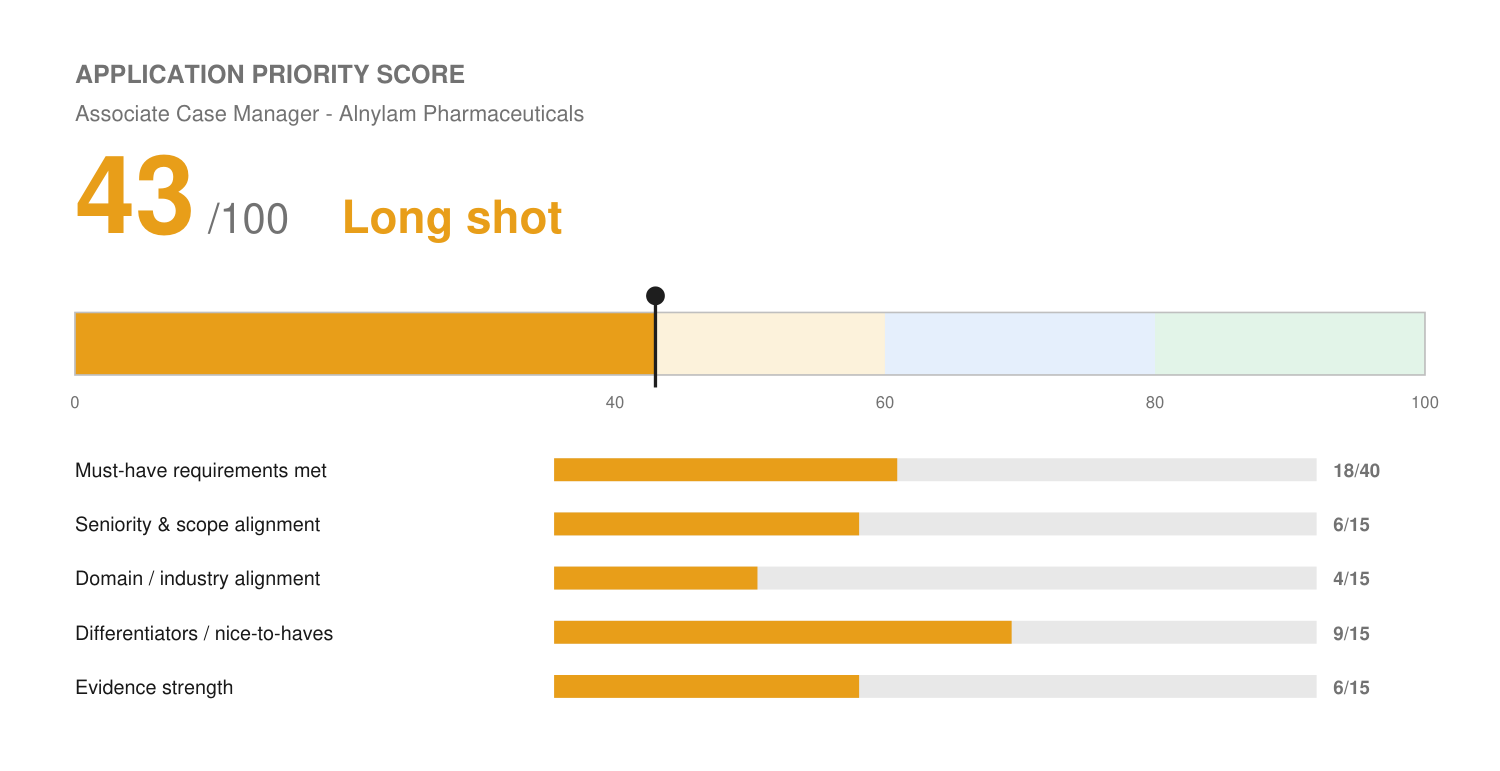
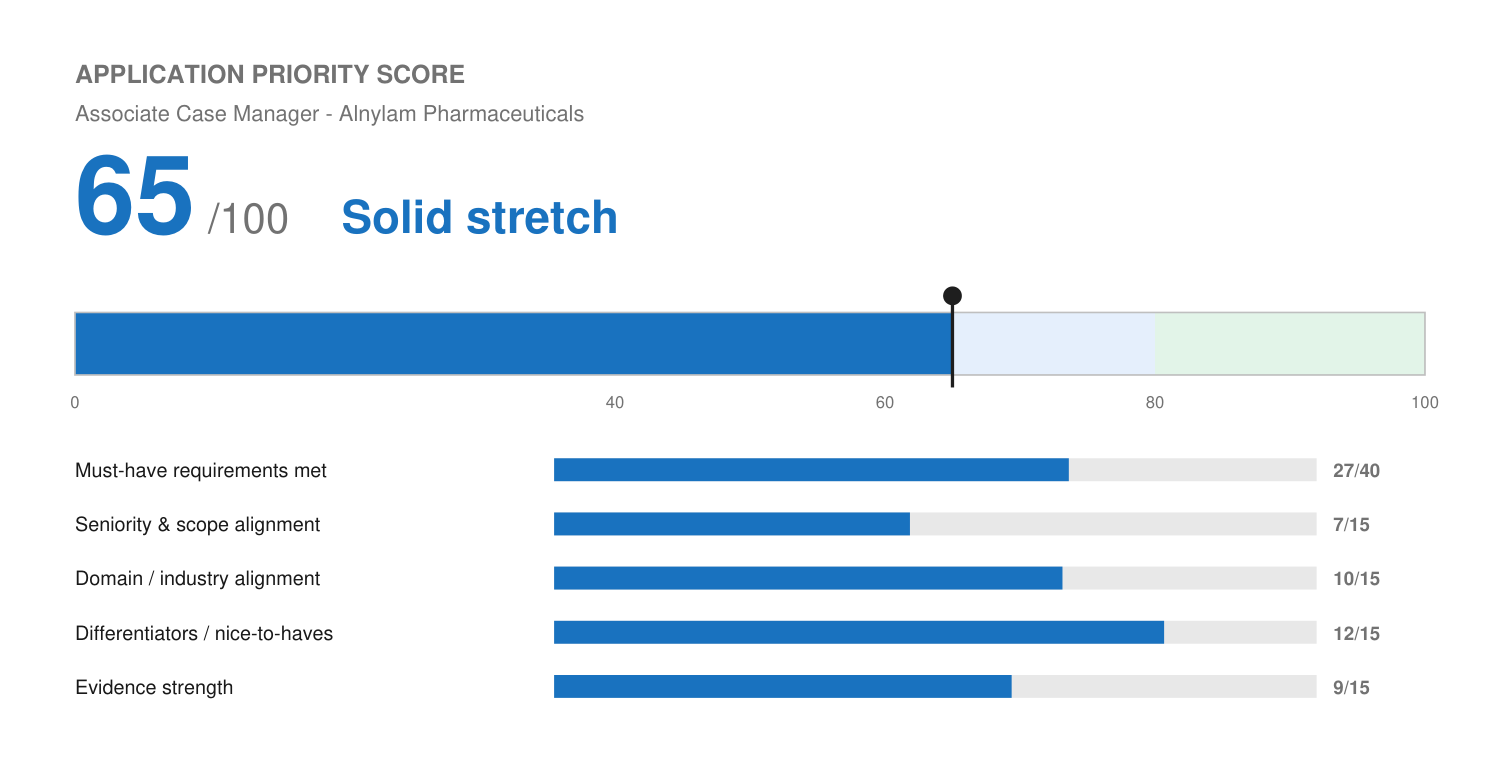
Update Alnylam application after confirming real insurance-navigation experience
Josh confirmed 8 years of firsthand experience fighting private-payer
insurers for PT and MRI approvals, tied to a chronic condition requiring
multiple injections and two procedures. This is real, lived prior-
authorization and appeals experience, the actual core mechanic of the
Associate Case Manager role, so it moves the score from 43 (Long shot) to
65 (Solid stretch).

Added the confirmed fact to master-profile.md so it's available for
future healthcare/patient-services applications. Resume summary and
cover letter rewritten to use the real, specific detail (kept the exact
condition/body part general per Josh's privacy) instead of the previous
generic "has been a patient" framing. Match report updated with the
before/after score and reasoning.

Claude-Session: https://claude.ai/code/session_01HeZspKnLVkWbr9yhNEisQZ

diff --git a/applications/alnylam-associate-case-manager/match-report.md b/applications/alnylam-associate-case-manager/match-report.md
@@ -17,14 +17,14 @@
 | Bachelor's degree | Resume-evidenced | Met — B.A., Colorado State University. |
 | 1-2 years customer service / account management / case management / healthcare field experience | Resume-evidenced (strong) | Far exceeded via 15+ years of account management (Wix, Birdeye, Fetch & Funnel, Solenzo). |
 | Rare disease experience (preferred) | **Gap** | None. |
-| Knowledge of private payer, Medicare, Medicaid structure, reimbursement process, medical terminology | **Gap — core to the role** | Nothing in the profile evidences insurance/payer systems, benefits verification, prior authorization, billing/coding, or medical terminology. This is most of the job's actual daily work and is named directly rather than implied away in the resume and cover letter. |
+| Knowledge of private payer, Medicare, Medicaid structure, reimbursement process, medical terminology | **Covered (adjacent, real) — updated Sep 2026** | Josh has 8 years of firsthand experience fighting private-payer insurers for approvals (physical therapy, MRIs) for his own chronic condition — genuine, lived prior-authorization and appeals experience, from the patient side rather than a professional role. No confirmed Medicare/Medicaid-specific knowledge or formal medical billing/coding background — that piece remains a real gap and is named honestly in the cover letter. |
 | High-volume patient services program experience (preferred) | Covered (adjacent) | No patient-services program specifically, but genuine high-volume caseload experience (25+ client onboardings/month at Wix; concurrent multi-client engagements at Solenzo). |
 | Communication, critical thinking, problem-solving | Resume-evidenced | Strong, well evidenced throughout. |
 | Adaptability / fast-paced environment | Resume-evidenced | Strong — Founder of Solenzo, agency environments. |
 | Team cooperation / interpersonal skills | Resume-evidenced | Strong. |
 | CRM platform navigation | Resume-evidenced (strong) | Extensive CRM experience across Salesforce, HubSpot, GoHighLevel — the specific platform Alnylam uses will differ, but the underlying skill (segmentation, data hygiene, record accuracy) transfers directly. |
 | HIPAA / PHI confidentiality handling | **Candidate confirmation / gap** | No formal HIPAA training documented. General professional discretion with confidential business data exists but isn't the same as PHI-specific compliance training — named as a gap rather than assumed. |
-| "Passionate about rare disease" (values fit) | **Candidate confirmation** | Josh's profile documents genuine personal motivation to help patients navigate healthcare (he has been a patient himself) — a real, authentic hook, but specifically about rare disease is not something he's stated. Cover letter uses the honest, broader version rather than claiming rare-disease-specific passion. |
+| "Passionate about rare disease" (values fit) | **Candidate confirmation** | Josh's profile documents genuine personal motivation to help patients navigate healthcare, now with real specifics (8 years fighting insurers over a chronic condition) — a strong, authentic hook, but specifically about *rare disease* is not something he's stated. Cover letter uses the honest, broader version (chronic condition, insurance navigation) rather than claiming rare-disease-specific passion. |
 
 **No eligibility cap applied** — no failed hard blocker (no work-authorization issue, no confirmed-unworkable location, no required license he lacks, and his years of relevant experience exceed rather than fall short of the stated minimum).
 
@@ -33,20 +33,26 @@
 ## Application Priority Score
 
 ```
-🟡 Application Priority Score: 43 / 100 — Long shot
-[█████████░░░░░░░░░░░]  43%
+🔵 Application Priority Score: 65 / 100 — Solid stretch
+[█████████████░░░░░░░]  65%
 ```
 *Internal decision aid — not a prediction of Alnylam's own screening outcome.*
 
+**Updated Sep 2026:** originally scored 43/100 (Long shot) before Josh confirmed 8 years of firsthand
+experience fighting private-payer insurers for approvals (physical therapy, MRIs) tied to a chronic
+condition. That's real, lived prior-authorization and appeals experience, close to the actual daily work
+of this role, so the score moved up meaningfully. It is still patient-side experience, not a professional
+case-management background, which is why this lands in Solid Stretch rather than Strong Fit.
+
 | Dimension | Score | Max | Why |
 | :--- | :--- | :--- | :--- |
-| Must-have requirements met | 18 | 40 | Bachelor's degree and years-of-account-management requirements are exceeded; communication and adaptability are strong. But the payer/Medicare/Medicaid/reimbursement/medical-terminology knowledge, which is most of the role's actual daily work, is a near-total gap. |
-| Seniority & scope alignment | 6 | 15 | This is an Associate-level (entry-to-early-career) IC role; Josh brings well beyond the required experience level in years, but from a different function (sales/marketing account management, not patient services/payer relations). |
-| Domain / industry alignment | 4 | 15 | No pharma, patient-services, or insurance-reimbursement domain experience. Healthcare-adjacent B2B channel sales at Birdeye and genuine personal patient experience exist but aren't the same as this role's domain. |
-| Differentiators / nice-to-haves | 9 | 15 | Genuine strengths: high-volume caseload management, CRM/data-accuracy discipline, strong communication, and an authentic personal motivation to help patients navigate the system. |
-| Evidence strength | 6 | 15 | Strong, quantified evidence for the transferable skills (25+/month, 120%/110% attainment, 94% retention); zero evidence for the payer/insurance-specific core function. |
+| Must-have requirements met | 27 | 40 | Bachelor's degree and years-of-account-management requirements are exceeded; communication and adaptability are strong. Payer/reimbursement knowledge is now real (8 years navigating private-payer prior authorization and appeals personally), though Medicare/Medicaid-specific and medical billing/coding knowledge remain unconfirmed gaps. |
+| Seniority & scope alignment | 7 | 15 | This is an Associate-level (entry-to-early-career) IC role; Josh brings well beyond the required experience level in years, but from a different function (sales/marketing account management, not patient services/payer relations). Unaffected by the new information. |
+| Domain / industry alignment | 10 | 15 | Genuine, sustained personal exposure to the private-payer insurance and prior-authorization ecosystem, plus healthcare-adjacent B2B channel sales at Birdeye. Still no professional pharma or patient-services employer on record. |
+| Differentiators / nice-to-haves | 12 | 15 | High-volume caseload management, CRM/data-accuracy discipline, strong communication, and now a genuinely powerful, specific personal motivation (not generic "passion for healthcare"). |
+| Evidence strength | 9 | 15 | Strong, quantified evidence for the transferable skills (25+/month, 120%/110% attainment, 94% retention), plus real (if unquantified) lived experience with prior authorization and appeals. |
 
-**Band: Long shot (40–59)** — apply only if genuinely interested; the personal motivation here is real, so this could be worth pursuing on that basis even with the domain gap, but the domain gap itself is substantial and honestly reflected in the score.
+**Band: Solid stretch (60–79)** — apply with the tailored resume and cover letter. The personal insurance-navigation experience is a genuine, differentiated strength most candidates for this role won't have; the remaining gap (professional case-management background, Medicare/Medicaid specifics, medical billing/coding) is real but no longer disqualifying-sized.
 
 ---
 
@@ -56,25 +62,27 @@
 - High-volume, detail-critical caseload management — Wix (25+ client onboardings/month, 120%/110% attainment) and Solenzo (concurrent client engagements, auditable records).
 - CRM data entry and accuracy — explicit experience across three platforms (Salesforce, HubSpot, GoHighLevel), including standardizing data capture and contact segmentation.
 - Communication under time pressure, adaptability, teamwork — evidenced throughout.
+- **Prior authorization and appeals experience** — 8 years personally fighting private-payer insurers for PT and imaging approvals for a chronic condition. Real, lived experience with the core mechanic of this role, from the patient side.
 
-**Not evidenced at all (the role's core function):**
-- Payer/insurance benefits verification, direct payer contact.
-- Prior authorization research and processing.
-- Medicare/Medicaid structure, reimbursement process, medical terminology, billing/coding.
+**Not evidenced:**
+- Direct payer contact in a professional capacity (his experience is as the patient/advocate, not the person submitting on a provider's or manufacturer's behalf).
+- Medicare/Medicaid structure specifically (his experience is private/commercial payer).
+- Formal medical terminology, billing/coding, or reimbursement-process training.
 - Specialty pharmacy referral processes.
 
 ---
 
 ## Top Strengths for This Role
 
-1. **Genuine, authentic personal motivation** — Josh has been a patient in the healthcare system himself and has expressed real interest in helping others navigate it. This is the strongest, most honest thing this application has going for it, and it's used directly in the cover letter rather than as generic "passion" language.
+1. **Eight years of real, lived prior-authorization and appeals experience** — not a talking point but a sustained, specific pattern (fighting insurers for PT and MRI approvals for a chronic condition). This is the single strongest, most differentiated thing this application has, and it's the actual core mechanic of the job, told honestly as patient-side experience rather than inflated into a professional claim.
 2. **High-volume, detail-accurate casework** — real, quantified evidence (25+/month at Wix) that transfers well to a high-caseload environment.
 3. **CRM/data-hygiene discipline** — directly relevant to the "enter and maintain accurate data" and "navigate CRM platform" responsibilities, even on a different specific platform.
 
 ## Gaps
 
-- No payer, Medicare/Medicaid, reimbursement, or medical-terminology knowledge — this is most of the actual job and is named honestly rather than glossed over.
-- No rare disease or pharma patient-services experience.
+- No Medicare/Medicaid-specific knowledge (his insurance experience is private/commercial payer).
+- No formal medical terminology, billing/coding, or reimbursement-process training.
+- No rare disease or professional pharma/patient-services employer on record.
 - No formal HIPAA/PHI compliance training documented.
 
 ## Candidate Confirmation Needed

diff --git a/profile/master-profile.md b/profile/master-profile.md
@@ -84,12 +84,24 @@
 
 - **Has been a patient inside the healthcare system himself**, and wants to help patients
   navigate it, per Josh's own words: "would love to be there to help patients." Genuine
-  personal motivation, not a positioning angle. No further specifics given (condition,
-  timeframe, etc.) — keep it at this level of generality in cover letters and interview
-  answers unless Josh volunteers more. Usable for healthcare, patient-advocacy, or
-  healthcare-affordability employers (e.g., TailorMed) as a personal "why this role"
+  personal motivation, not a positioning angle. Usable for healthcare, patient-advocacy,
+  or healthcare-affordability employers (e.g., TailorMed) as a personal "why this role"
   note, distinct from his professional healthcare-vertical experience (see Birdeye note
   above).
+- **Eight years of firsthand insurance navigation (confirmed Sep 2026):** an ongoing
+  chronic condition (multiple injections and two procedures on his neck) has had him
+  dealing directly with private-payer insurance processes for roughly 8 years — more
+  contact with doctors lately than with friends, per Josh's own words. He has personally
+  fought insurers for approvals on physical therapy appointments and imaging (MRIs),
+  which means real, lived experience with prior authorization and the appeals process
+  from the patient/advocate side, not just general "has been a patient" exposure. This is
+  private-payer/commercial-insurance experience specifically — no confirmed exposure to
+  Medicare/Medicaid structure or formal medical billing/coding terminology, keep that
+  distinction honest. Strong, genuine differentiator for patient-services, case-management,
+  or reimbursement-adjacent roles (e.g., Alnylam Associate Case Manager) — usable in cover
+  letters and interviews at the general level (condition, procedure count, duration,
+  what he fought for) without naming the specific body part/diagnosis unless Josh wants
+  that level of detail in a given application; that's his call per document, not a default.
 
 ---
 
